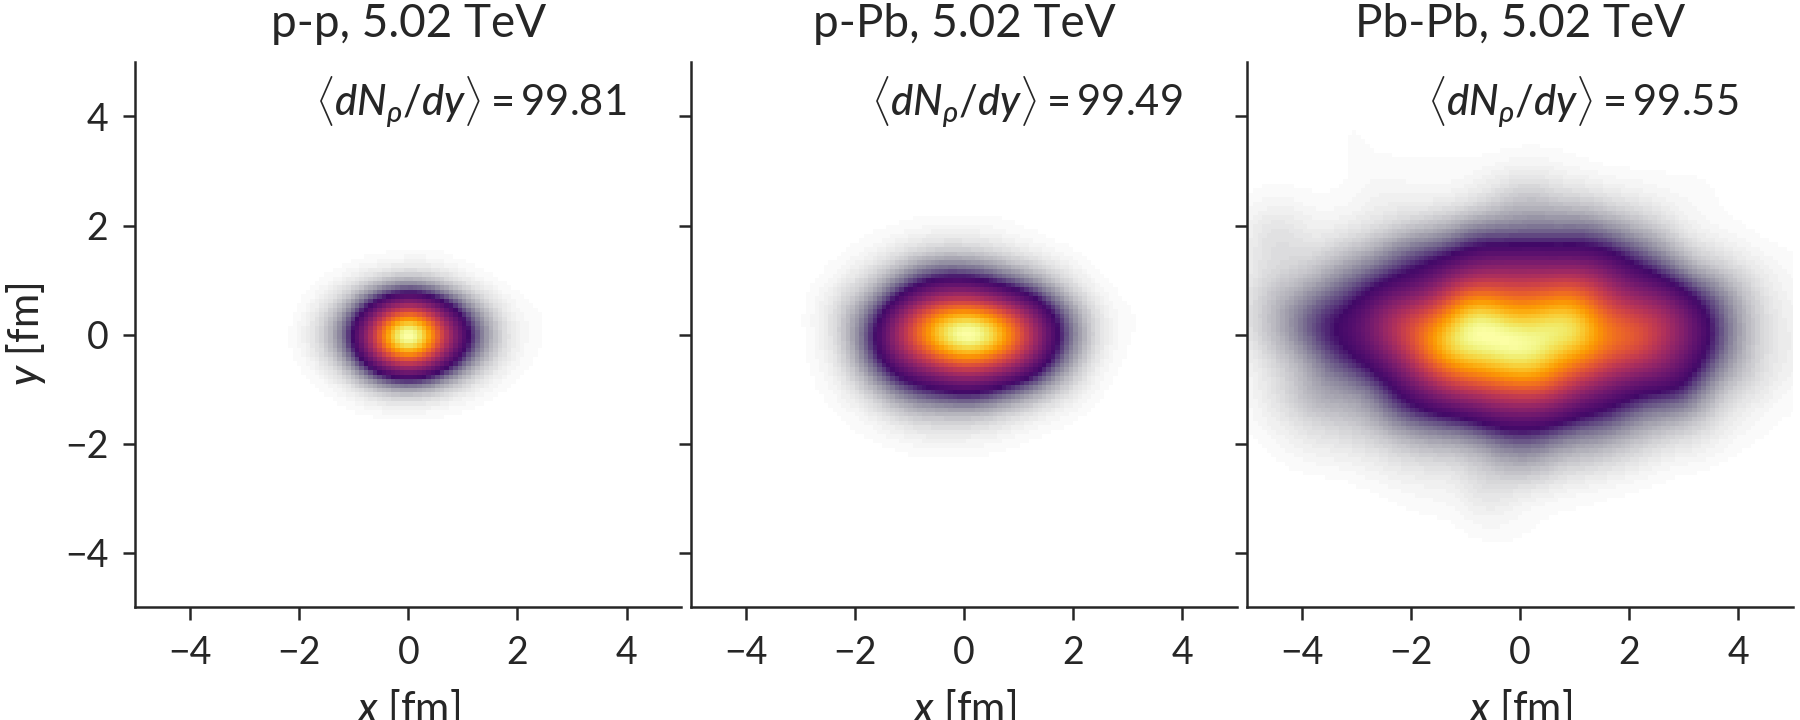
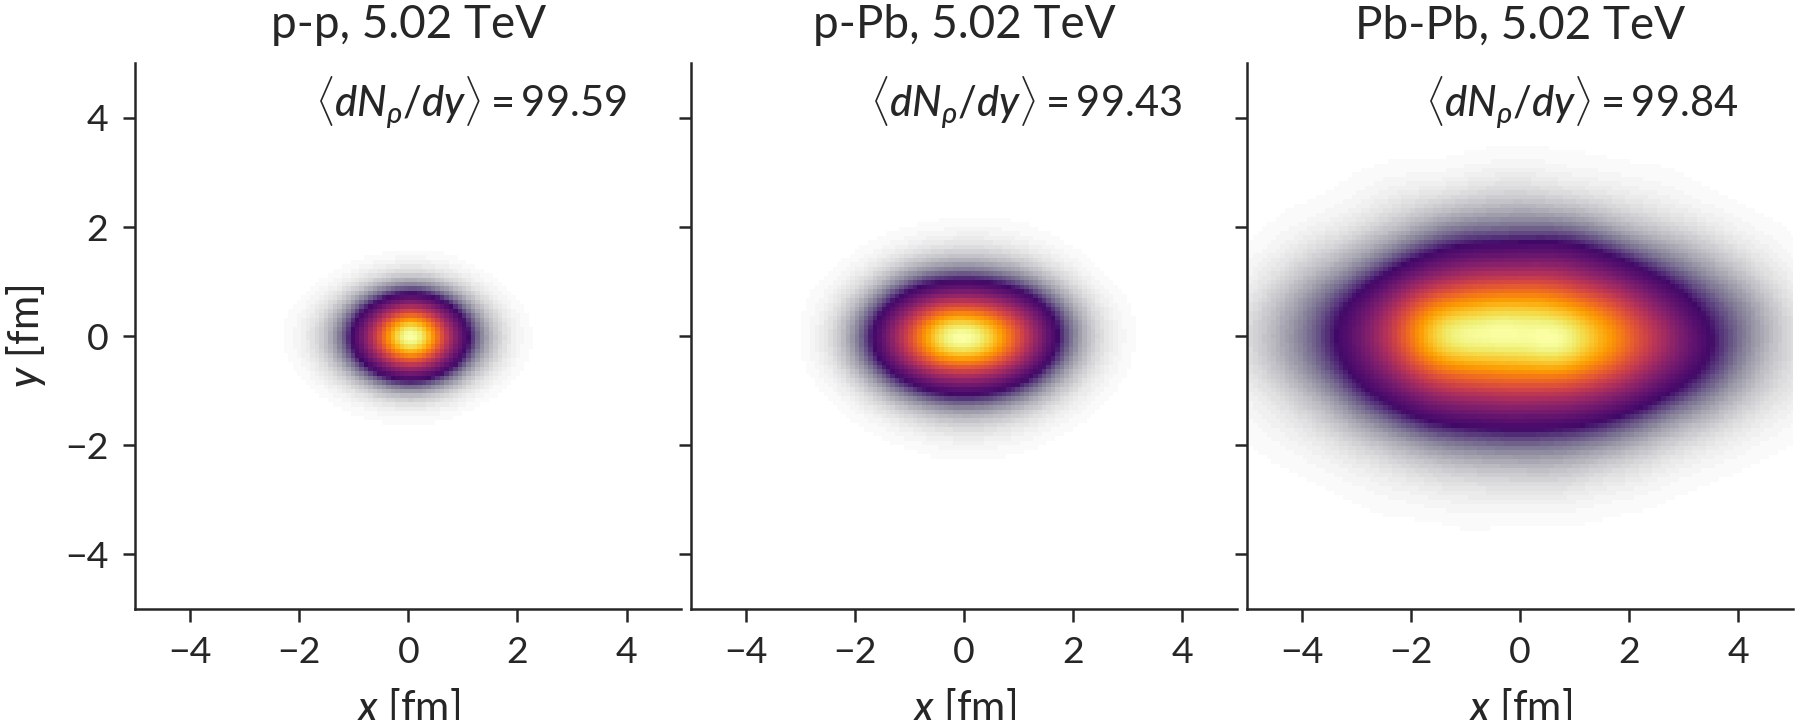
Add isotherms figure caption

diff --git a/README.md b/README.md
@@ -12,13 +12,13 @@ Then clone and cd into the system-isotherms project repository,
 ```
 git clone https://github.com/morelandjs/system-isotherms.git && cd system-isotherms
 ```
-Make sure the hic-eventgen `run-events` executable is in your path and `$XDG_DATA_HOME` is sourced as explained in the hic-eventgen installation instructions.
+Make sure the hic-eventgen `run-events` executable is in your path and that `$XDG_DATA_HOME` is sourced as explained in the hic-eventgen installation instructions.
 
 Finally run,
 ```
 python make-plots
 ```
-to regenerate the figures. This could take some time.
+to regenerate the figures. This could take some time. The first time the make-plots script is executed, it will cache all intermediate results to the cache directory which expedites subsequent figure generation.
 
 ## Figure descriptions
 
@@ -34,16 +34,16 @@ Before free-streaming, the initial condition profiles represent a density of "pa
 I find empirically that 95 < dN<sub>ρ</sub>/dy < 105 selects a reasonable intersection of the p-p, p-Pb and Pb-Pb multiplicity distributions at 5.02 TeV, where hydrodynamic approximations are likely to remain valid. These initial condition events correspond to dN<sub>ch</sub>/dη ≈ 60 particles at midrapidity.
 
 This multiplicity/centrality cut is illustrated by black vertical lines in the above figure, superimposed on the p-p, p-Pb and Pb-Pb minimum bias multiplicity distributions at 5.02 TeV.
-Note that _zero_ p-p events fall within this trigger due to the much smaller number of particles produced in p-p collisions. To remedy this issue, I rescale the p-p multiplicity distribution by an artificial scaling factor to increase the acceptance of my p-p multiplicity trigger.
+Note that _zero_ p-p events fall within this trigger due to the much smaller number of particles produced in p-p collisions. To remedy this issue, I rescale the p-p multiplicity distribution by an artificial scaling factor to increase the acceptance of my p-p multiplicity trigger. Since p-p events have roughly constant eccentricity as a function of charged particle multiplicity, this ad hoc rescaling factor is unlikely to degrade the predictions of the model.
 
 ### Single-shot events
 <img src="plots/single_shot_events.png" width="100%">
 
-Using this initial condition multiplicity cut, I then run a large number of initial condition events and yield events which fall within the specified trigger. The events are shifted into their center of mass frame and rotated so that the complex vector of the second eccentricity harmonic is aligned with the x-axis. The events are then averaged to generate a "single shot" initial condition profile.
+Using this initial condition multiplicity cut, I then run a large number of initial condition events and yield events which fall within the specified trigger. The events are shifted into their center of mass frame and rotated so that the principal axis of the second eccentricity harmonic is aligned with the x-axis. The events are then averaged to generate a "single shot" initial condition profile.
 
-This figure shows the event-averaged profiles of dN<sub>ρ</sub>/(d<sup>2</sup>xdη) for each collision system. The initial parton densities dN<sub>ρ</sub>/dy are annotated on each subpanel.
+The figure above shows the event-averaged profiles of dN<sub>ρ</sub>/(d<sup>2</sup>xdη) for each collision system. The initial parton densities dN<sub>ρ</sub>/dy are annotated on each subpanel. The ellipticity (almond shape) of each event is clearly visible. Interestingly, the profiles appear roughly self-similar up to and overall scaling factor. 
 
 ### Isotherms
 <img src="plots/isotherms.png" width="60%">
 
-Finish writing this...
+This figure shows the isotherms for p-p, p-Pb and Pb-Pb events at 100, 155 and 200 MeV for the single-shot initial condition events discussed previously. The colored dots in the figure are points (r, τ) on the boost-invariant isotherm hypersurface, where r<sup>2</sup> = x<sup>2</sup> + y<sup>2</sup>. The isotherms are regions (bands) and not lines since the initial profile are deformed. The spurious points in the T=100 MeV isotherm plot are artifacts from the event averaging procedure and would disappear in the limit of infinite statistics.
